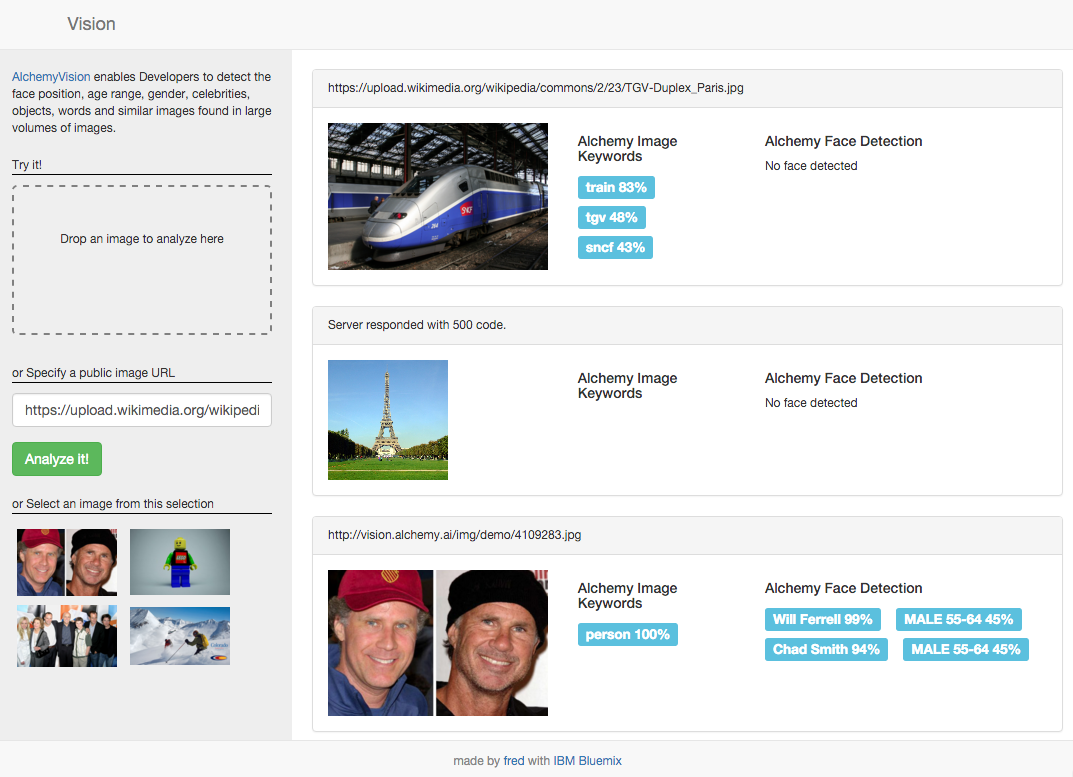
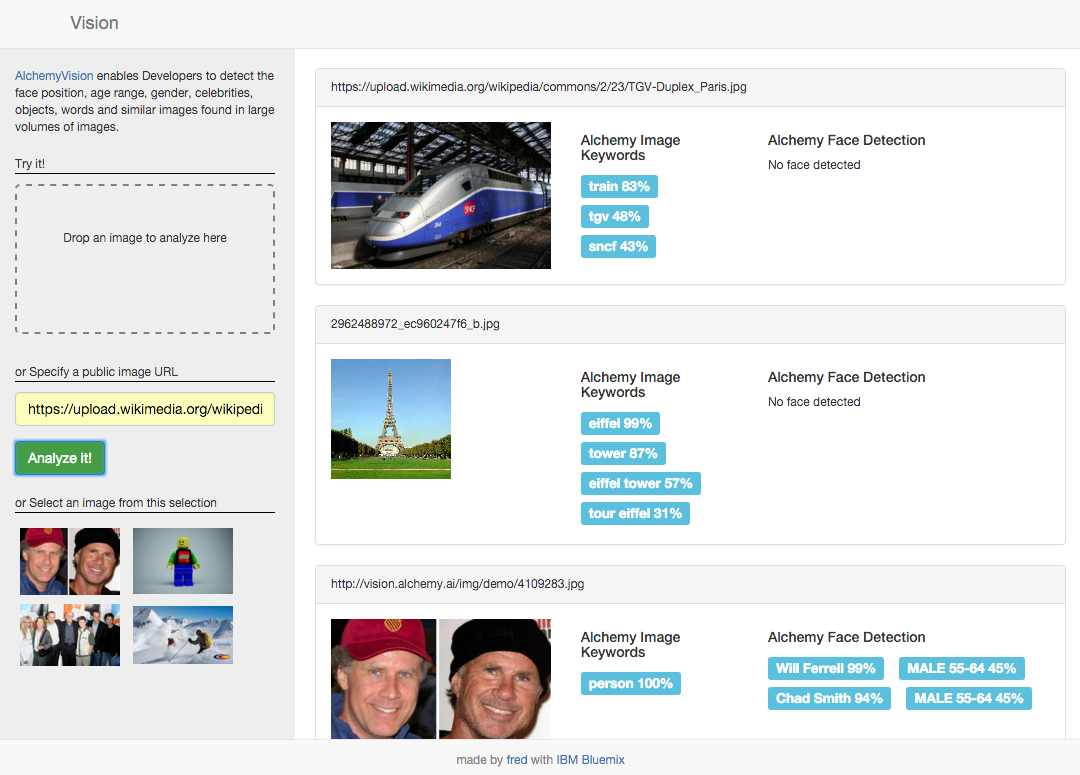
deploy to bluemix link

diff --git a/src/main/webapp/index.html b/src/main/webapp/index.html
@@ -24,8 +24,7 @@
     <div id="{{id}}" class="panel panel-default entry-box">
 
       <div class="panel-heading">
-        {{#if pending}}<span class="fa fa-spinner fa-spin"></span>{{/if}}
-        {{title}}
+        {{#if pending}}<span class="fa fa-spinner fa-spin"></span>{{/if}} {{title}}
       </div>
 
       <div class="panel-body {{#if pending}}entry-pending{{/if}}">
@@ -87,8 +86,9 @@
         <a class="navbar-brand" ui-sref="videos()">Vision</a>
       </div>
       <div id="navbar" class="navbar-collapse collapse">
-        <ul class="nav navbar-nav navbar-right">
-        </ul>
+        <form class="navbar-form navbar-right">
+          <a href="https://bluemix.net/deploy?repository=https://github.com/l2fprod/java-vision" target="_blank"><img src="http://bluemix.net/deploy/button.png" alt="Bluemix button" /></a>
+        </form>
       </div>
     </div>
   </nav>
